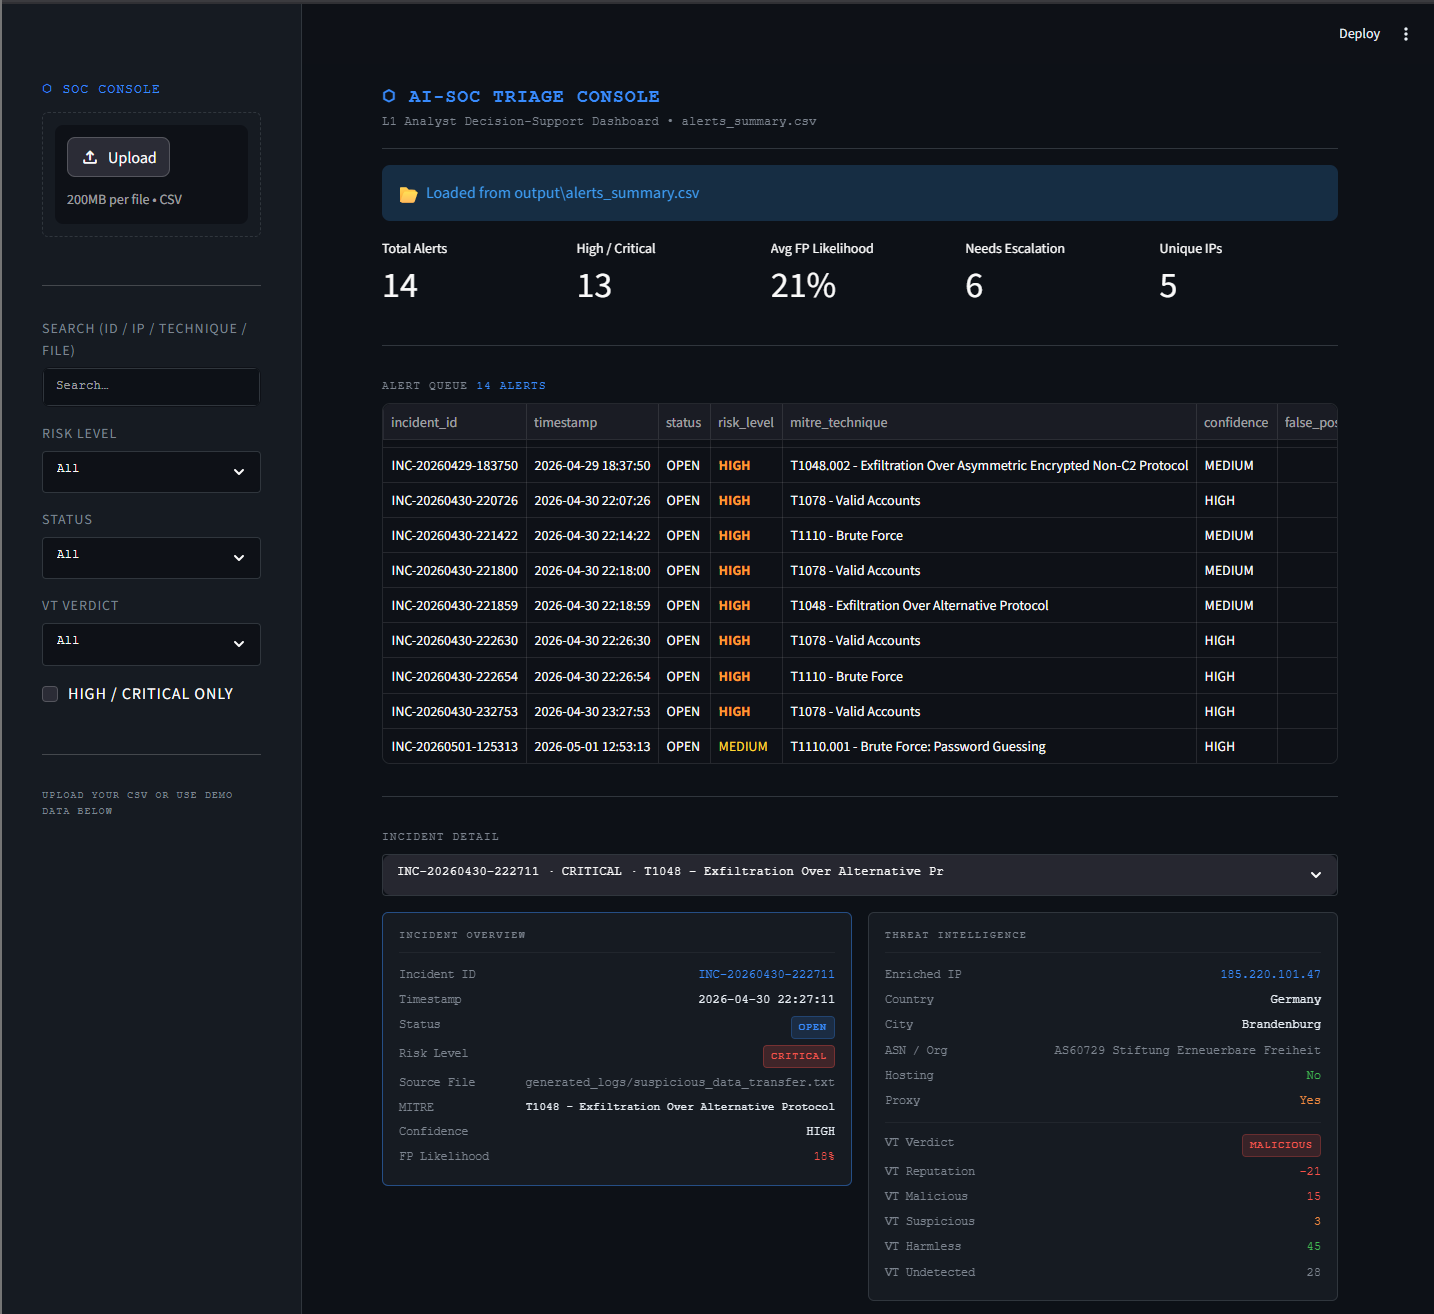
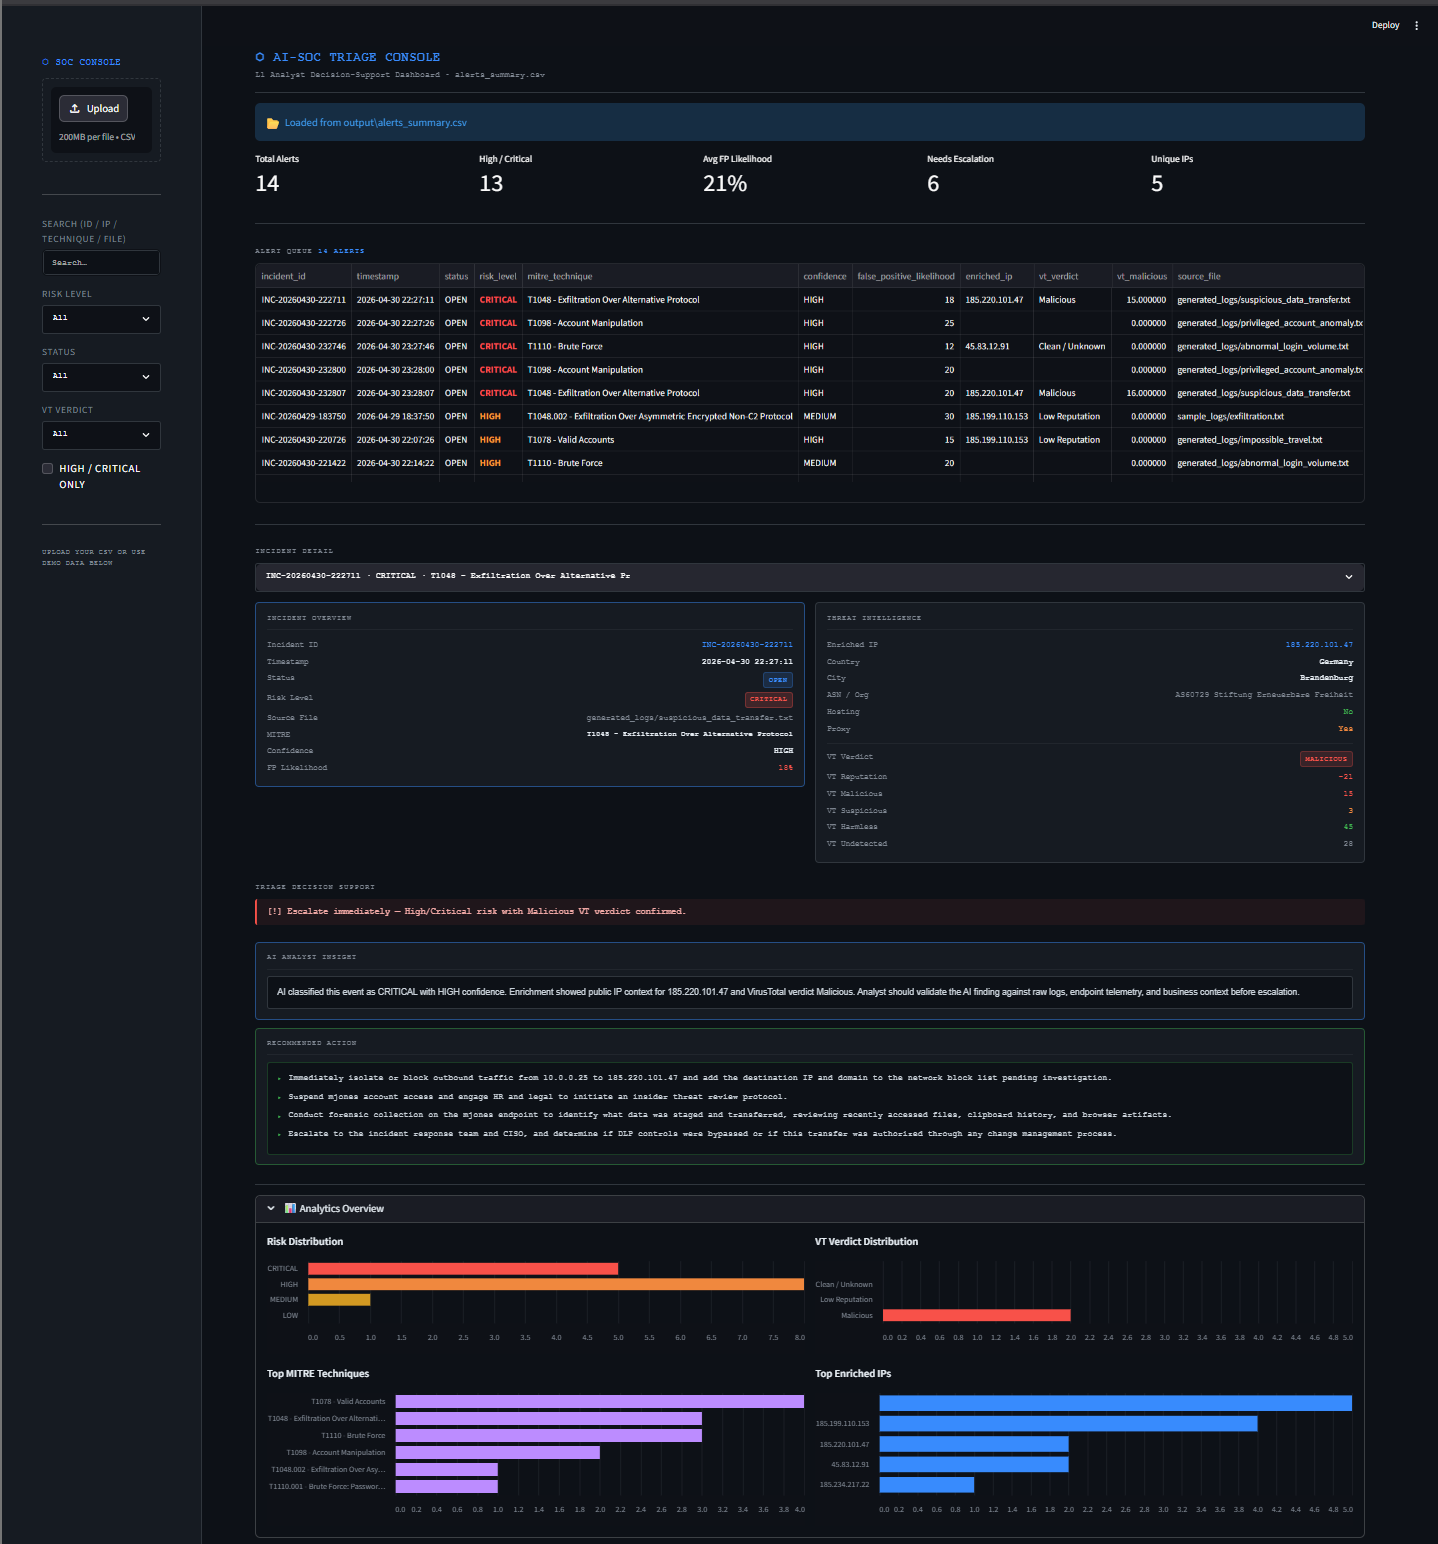
Update dashboard screenshot in README

diff --git a/README.md b/README.md
@@ -33,8 +33,7 @@ SOC Dashboard (L1 Decision Support)
 ### 🚨 Slack Alert Output
 ![Slack Alert](images/slack_alert.png)
 ### 📊 SOC Dashboard
-![SOC Dashboard](images/dashboradpt1.png)
-
+![SOC Dashboard]((images/dashboradpt1.png)(images/dashboradpt2.png))
 ---
 
 ## 🚀 Core Features